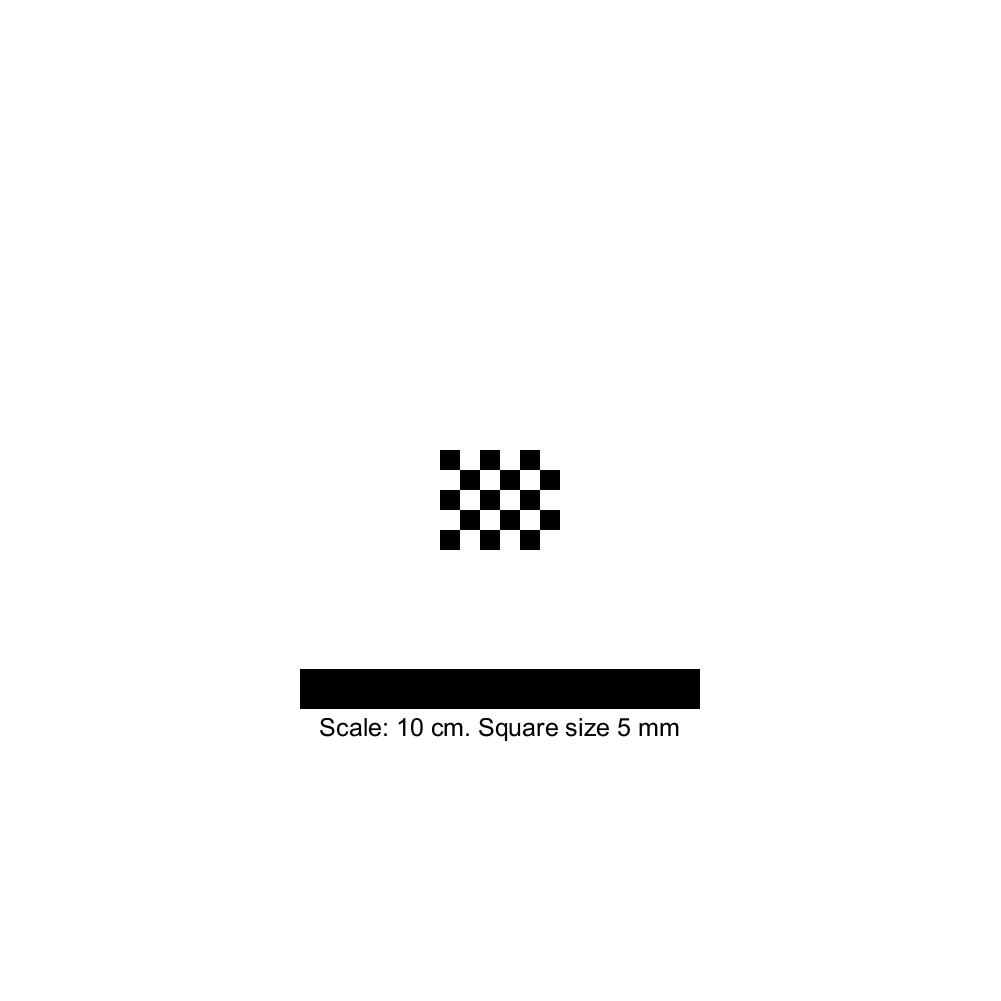
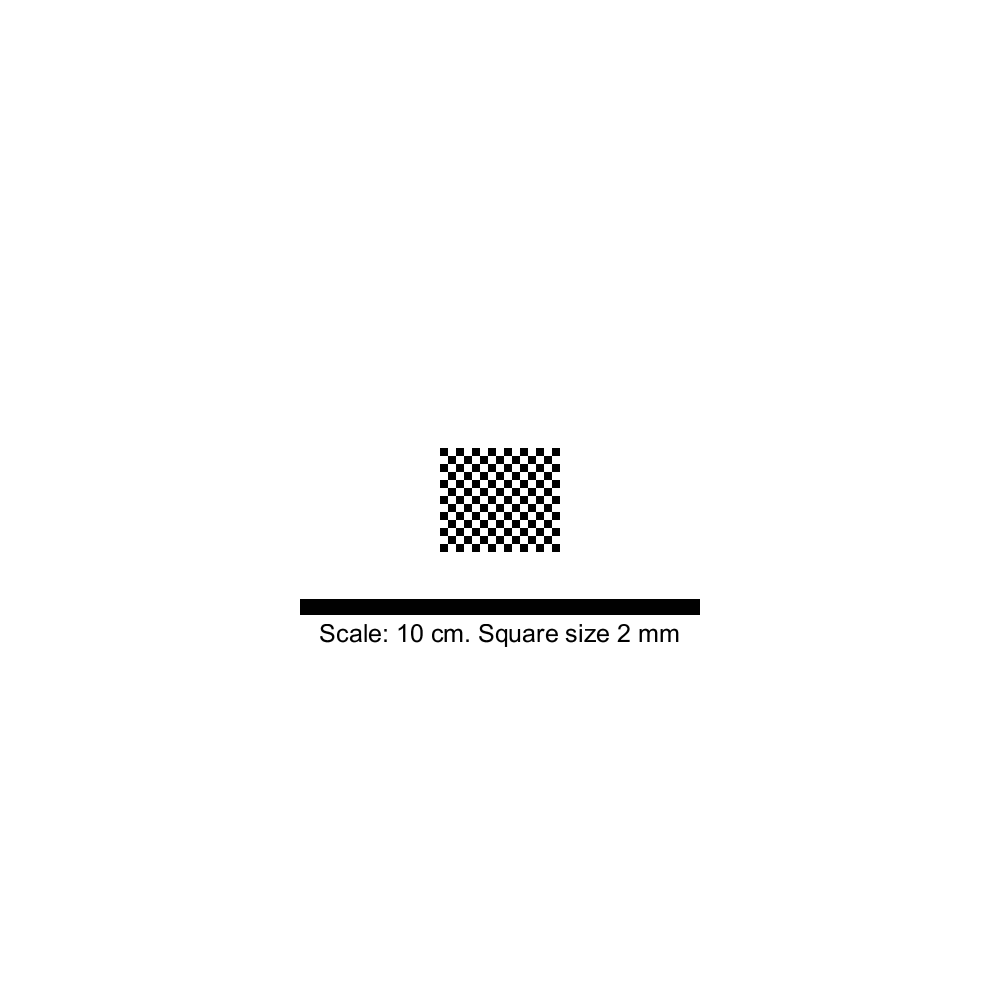
Following a conversation with Itay, modified the script to take images at one iPad tilt, but more z positions

Changed region(s): [[0.2787, 0.5884, 0.7123, 0.7433], [0.4336, 0.4336, 0.5574, 0.5574]]

diff --git a/take_calibration_images/generate_distortion_calibration_gcode.m b/take_calibration_images/generate_distortion_calibration_gcode.m
@@ -1,0 +1,73 @@
+% This script generates the robot gocode instructions to take different
+% pictures
+
+%% Inputs
+
+% Define X,Y position just under the robot's home position
+x0_mm = 0; % mm
+y0_mm = 300; % mm
+
+% Robot configuration
+camera_distance_from_bottom_of_robot_mm = 15; % Camera is installed 15mm above the bottom of the robot arm
+
+% The minimal FOV that the camera has (usually along the v axis)
+camera_fov_deg = 56; % From https://www.arducam.com/product/arducam-12mp-imx477-motorized-focus-high-quality-camera-for-raspberry-pi/
+
+% Target size from generate_distortion_calibration_target.m
+target_size_mm = 30; % = n_boxes_x*box_size
+
+% Inputs from take_distortion_calibration_images.py
+time_per_image_set_sec = 70;
+camera_height_above_iPad_mm = [50, 75, 100];
+
+%% Open the gcode file and write setup information
+time_per_image_set_msec = time_per_image_set_sec*1e3;
+fid = fopen('take_distortion_calibration_images.gcode','wt');
+fprintf(fid,'; Setup\n');
+fprintf(fid,';G90   (Absolute positioning, Z0 is when arm touches target, camera height of 15mm)\n');
+fprintf(fid,';G21   (Set units to millimeters)\n');
+fprintf(fid,'\n');
+fprintf(fid,'; Go up to signal the robot is going and allow user to click enter\n');
+fprintf(fid,'G0 Z%0.f (Camera height of %.0fmm)\n',...
+    camera_height_above_iPad_mm(round(end/2))-camera_distance_from_bottom_of_robot_mm, ...
+    camera_height_above_iPad_mm(round(end/2)));
+fprintf(fid,'G4 P10 (Wait for a bit)\n');
+fprintf(fid,'\n');
+fprintf(fid,'; Go to the center positioning\n');
+fprintf(fid,'G0 X%.0f Y%.0f (Just under the robot position is %.0fmm, %.0fmm)\n',x0_mm,y0_mm,x0_mm,y0_mm);
+fprintf(fid,'G4 P100\n');
+fprintf(fid,'\n');
+fprintf(fid,'; Set x-y positions and aquire images (base is Y=%.0f, X=%.0f, that is a good nutral place)\n',x0_mm,y0_mm);
+fprintf(fid,'; P delay should be time_per_image_set_sec*1000=%.0f',time_per_image_set_msec);
+
+%% Loop over all positions
+for hi=1:length(camera_height_above_iPad_mm)
+    h = camera_height_above_iPad_mm(hi);
+    fprintf(fid,'\nG0 Z%0.f (Camera height of %.0fmm)\n',...
+    	h-camera_distance_from_bottom_of_robot_mm, ...
+    	h);
+    
+    %% Compute max travel distance
+    max_travel_mm = sin(camera_fov_deg/2*pi/180)*h-target_size_mm/2;
+    travel_mm = round(linspace(-max_travel_mm,max_travel_mm,5));
+    
+    % Set a grid
+    [xx,yy] = meshgrid(travel_mm,travel_mm);
+    yy(:,1:2:end) = -yy(:,1:2:end); % Make snake pattern to prvent large translations
+    
+    %% Print options
+    xx = xx(:);
+    yy = yy(:);
+    
+    for xi=1:length(xx)
+        fprintf(fid,'G0 X%.0f Y%.0f\n',xx(xi)+x0,yy(xi)+y0);
+        fprintf(fid,'G4 P%.0f\n',time_per_image_set_msec);
+    end
+end
+
+%% Clean up
+fprintf(fid,'\n; Go to the center positioning\n');
+fprintf(fid,'G0 X%.0f Y%.0f\n',x0_mm,y0_mm);
+fprintf(fid,'G0 Z%.0f\n',camera_height_above_iPad_mm(1)-camera_distance_from_bottom_of_robot_mm);
+fprintf(fid,'G4 P1\n');
+fclose(fid);

diff --git a/take_calibration_images/take_distortion_calibration_images.py b/take_calibration_images/take_distortion_calibration_images.py
@@ -18,15 +18,14 @@ import logging
 # Number of x-y robot positions
 n_robot_positions = 25
 
+# Z positions
+camera_height_above_iPad_mm = [50, 75, 100]
+
 # What camera focus positions should we try?
 camera_focus_settings = [110,150,190,210,230]
 
 # Time it takes to complete image aquisition for each x-y position
 time_per_image_set_sec = 70
-
-# What iPad positions are we qualifying
-iPad_positions = ['iPad lay flat on ground','iPad promped 1cm on top','iPad promped 1cm on bottom','iPad promped 1cm on left','iPad promped 1cm on right']
-
 
 def create_image_folder_if_not_exist(path):
     is_exist = os.path.exists(path)
@@ -63,22 +62,19 @@ def main():
     # Ask user to start robot
     print("")
     print("Make shure the robot is centered at the pattern")
-    
-    position_counter = 0
+    print("On Rotric's consule run take_distortion_calibration_images.gcode")
+    val = input("Press Enter when robot is finished moving to the center position")
     
     # Loop over all heights
-    for iPad_position in iPad_positions:
+    for h in camera_height_above_iPad_mm:
         
-        print("Set iPad position to: {0}".format(iPad_position))
-        print("On Rotric's consule run take_distortion_calibration_images.gcode")
-        val = input("Press Enter when robot is finished moving to the center position")
+        print("h={0}mm".format(h))
         
         # Loop over all x-y positions
-        for robot_arm_position in range(n_robot_positions):
-            position_counter = position_counter + 1
+        for position_counter in range(n_robot_positions):
     
             aquisition_start_time = time.time()
-            print("Taking images for x-y position {0} of {1}mm".format(robot_arm_position,n_robot_positions))
+            print("Taking images for x-y position {0} of {1}mm".format(position_counter,n_robot_positions))
         
             # Loop over focus positions
             for camera_focus_setting in camera_focus_settings:
@@ -86,7 +82,7 @@ def main():
                 camera.change_focus(camera_focus_setting)
                 
                 # Take a picture
-                image_file_name_prefix = "pos{0:02d}".format(position_counter)
+                image_file_name_prefix = "h{0:02d}mm_pos{1:02d}".format(h,position_counter)
                 camera.take_pic(image_file_name_prefix,file_directory=output_folder_path)
                 
                 t=time.time()

diff --git a/take_calibration_images/generate_distortion_calibration_target.m b/take_calibration_images/generate_distortion_calibration_target.m
@@ -1,5 +1,4 @@
 % This script will generate a checkered target in a white background
-% mesure MTF, by adjusting focus one could find the optimal focus position
 
 %% Inputs
 
@@ -7,9 +6,9 @@
 pixel_size = 0.25; %mm
 
 % Checkered pattern
-box_size = 5; %mm
-n_boxes_x = 6;
-n_boxes_y = 5;
+box_size = 2; %mm
+n_boxes_x = 15;
+n_boxes_y = 13;
 
 % Scale Bar
 scalebar_size = 100; %mm
